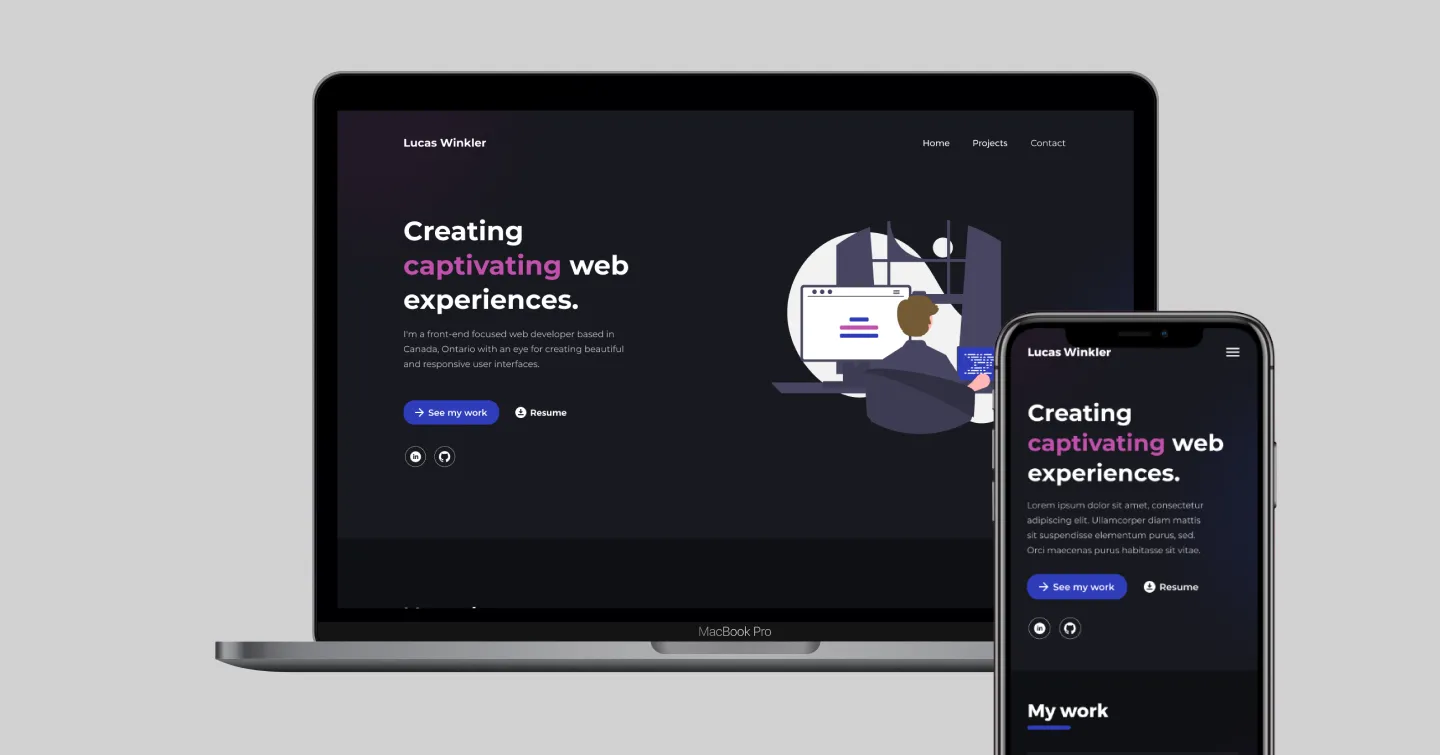
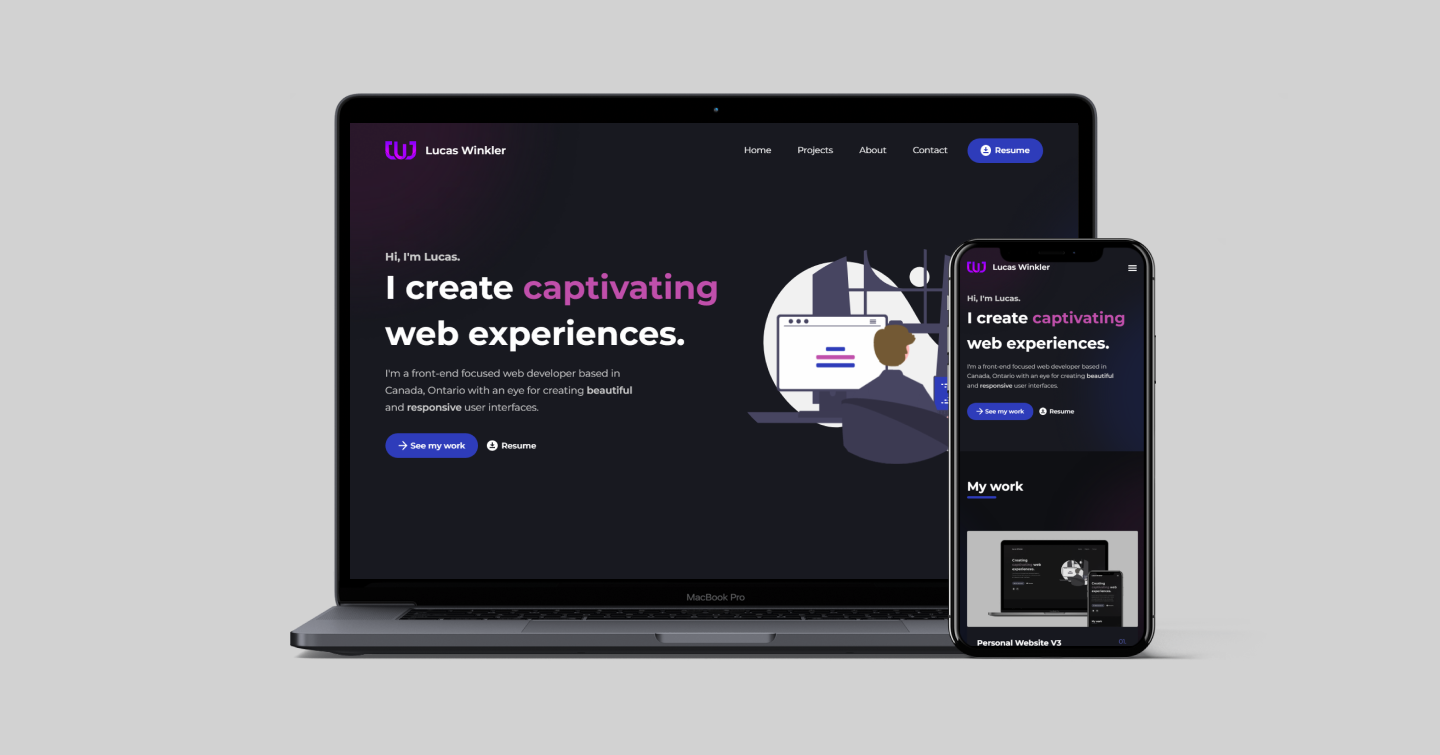
Modified images for project 1 and added rankguess as a 2nd project to display. Also modified the third coming soon project to remove confusion

Changed region(s): [[0.125, 0.0914, 0.9062, 1.0]]

diff --git a/index.html b/index.html
@@ -830,76 +830,67 @@
               style="--animation-delay: 2">
               <div class="project__image">
                 <img src="/images/project-personal-website-v3.webp" width="547" height="286"
-                  alt="Desktop and mobile screenshot of personal website v3 project" loading="lazy">
+                  alt="Personal website v3 project in desktop and mobile mockup devices" loading="lazy">
               </div>
             </div>
           </article>
           <article class="project reveal-tablet-md-down reveal--fade-bottom-tablet-md-down">
             <div class="project__content reveal-tablet-md-up reveal--fade-right-tablet-md-up">
               <header class="project__header">
-                <h3 class="project__title">Coming Soon!</h3>
+                <h3 class="project__title">RankGuess</h3>
                 <span class="project__number" aria-hidden="true">02.</span>
               </header>
               <div class="project__info">
                 <p class="project__description">
-                  I'm currently working hard at creating projects to show off!
-                  I'm not satisified with my past projects and I really wanted
-                  to get this website up and running so you'll have to wait
-                  just a bit!
+                  A full-stack, daily, web-based game where people guess the rank of another user after watching a short
+                  video of their gameplay. This project is still a work in progress.
                 </p>
                 <ul class="project__stack" aria-label="Project stack">
-                  <li class="project__tech">React</li>
-                  <li class="project__tech">Node</li>
-                  <li class="project__tech">SCSS</li>
+                  <li class="project__tech">Next.js (React)</li>
+                  <li class="project__tech">TypeScript</li>
+                  <li class="project__tech">TailwindCSS</li>
+                  <li class="project__tech">NextAuth</li>
+                  <li class="project__tech">Prisma</li>
+                  <li class="project__tech">Planetscale</li>
+                  <li class="project__tech">YouTube API</li>
                 </ul>
               </div>
               <footer class="project__links">
-                <div class="tooltip tooltip--active">
-                  <a class="button button--secondary disabled-link" title="Open the live website" role="link"
-                    aria-disabled="true" aria-describedby="project2DisabledReason1">
-                    <span class="button__prepend button__prepend--no-fill">
-                      <svg aria-hidden="true" focusable="false" width="17" height="17" viewBox="0 0 17 17" fill="none"
-                        xmlns="http://www.w3.org/2000/svg">
-                        <path
-                          d="M8.3125 2.4375H1.4375V15.5625H14.5625V8.6875M14.5625 2.4375L7.6875 9.3125M11.4375 1.1875H15.8125V5.5625"
-                          stroke="white" stroke-width="1.5" stroke-linecap="round" stroke-linejoin="round" />
-                      </svg>
-                    </span>
-                    <span class="button__text button__text--fw-regular">
-                      See project
-                    </span>
-                  </a>
-                  <div role="tooltip" class="tooltip__box" id="project2DisabledReason1">
-                    <span class="tooltip__text">Coming Soon!</span>
-                  </div>
-                </div>
-                <div class="tooltip tooltip--active">
-                  <a class="button button--secondary disabled-link disabled-link--svg-fill"
-                    title="Open the github repository" role="link" aria-disabled="true"
-                    aria-describedby="project2DisabledReason2">
-                    <span class="button__prepend">
-                      <svg aria-hidden="true" focusable="false" width="18" height="18" viewBox="0 0 18 18" fill="none"
-                        xmlns="http://www.w3.org/2000/svg">
-                        <path fill-rule="evenodd" clip-rule="evenodd"
-                          d="M9 0C4.0275 0 0 4.0275 0 9C0 12.9825 2.57625 16.3462 6.15375 17.5387C6.60375 17.6175 6.7725 17.3475 6.7725 17.1112C6.7725 16.8975 6.76125 16.1887 6.76125 15.435C4.5 15.8512 3.915 14.8837 3.735 14.3775C3.63375 14.1187 3.195 13.32 2.8125 13.1062C2.4975 12.9375 2.0475 12.5212 2.80125 12.51C3.51 12.4987 4.01625 13.1625 4.185 13.4325C4.995 14.7937 6.28875 14.4112 6.80625 14.175C6.885 13.59 7.12125 13.1962 7.38 12.9712C5.3775 12.7462 3.285 11.97 3.285 8.5275C3.285 7.54875 3.63375 6.73875 4.2075 6.10875C4.1175 5.88375 3.8025 4.96125 4.2975 3.72375C4.2975 3.72375 5.05125 3.4875 6.7725 4.64625C7.4925 4.44375 8.2575 4.3425 9.0225 4.3425C9.7875 4.3425 10.5525 4.44375 11.2725 4.64625C12.9937 3.47625 13.7475 3.72375 13.7475 3.72375C14.2425 4.96125 13.9275 5.88375 13.8375 6.10875C14.4113 6.73875 14.76 7.5375 14.76 8.5275C14.76 11.9812 12.6562 12.7462 10.6537 12.9712C10.98 13.2525 11.2613 13.7925 11.2613 14.6362C11.2613 15.84 11.25 16.8075 11.25 17.1112C11.25 17.3475 11.4187 17.6287 11.8687 17.5387C13.6554 16.9355 15.2079 15.7873 16.3077 14.2555C17.4076 12.7238 17.9995 10.8857 18 9C18 4.0275 13.9725 0 9 0Z"
-                          fill="white" />
-                      </svg>
-                    </span>
-                    <span class="button__text button__text--fw-regular">
-                      See code
-                    </span>
-                  </a>
-                  <div role="tooltip" class="tooltip__box" id="project2DisabledReason2">
-                    <span class="tooltip__text">Coming Soon!</span>
-                  </div>
-                </div>
+                <a class="button button--secondary" href="https://www.rankguess.com" rel="noopener noreferrer"
+                  target="_blank" title="Open the live website" role="link">
+                  <span class="button__prepend button__prepend--no-fill">
+                    <svg aria-hidden="true" focusable="false" width="17" height="17" viewBox="0 0 17 17" fill="none"
+                      xmlns="http://www.w3.org/2000/svg">
+                      <path
+                        d="M8.3125 2.4375H1.4375V15.5625H14.5625V8.6875M14.5625 2.4375L7.6875 9.3125M11.4375 1.1875H15.8125V5.5625"
+                        stroke="white" stroke-width="1.5" stroke-linecap="round" stroke-linejoin="round" />
+                    </svg>
+                  </span>
+                  <span class="button__text button__text--fw-regular">
+                    See project
+                  </span>
+                </a>
+                <a class="button button--secondary" href="https://github.com/LucasWinkler/rankguess"
+                  rel="noopener noreferrer" target="_blank" title="Open the github repository">
+                  <span class="button__prepend">
+                    <svg aria-hidden="true" focusable="false" width="18" height="18" viewBox="0 0 18 18" fill="none"
+                      xmlns="http://www.w3.org/2000/svg">
+                      <path fill-rule="evenodd" clip-rule="evenodd"
+                        d="M9 0C4.0275 0 0 4.0275 0 9C0 12.9825 2.57625 16.3462 6.15375 17.5387C6.60375 17.6175 6.7725 17.3475 6.7725 17.1112C6.7725 16.8975 6.76125 16.1887 6.76125 15.435C4.5 15.8512 3.915 14.8837 3.735 14.3775C3.63375 14.1187 3.195 13.32 2.8125 13.1062C2.4975 12.9375 2.0475 12.5212 2.80125 12.51C3.51 12.4987 4.01625 13.1625 4.185 13.4325C4.995 14.7937 6.28875 14.4112 6.80625 14.175C6.885 13.59 7.12125 13.1962 7.38 12.9712C5.3775 12.7462 3.285 11.97 3.285 8.5275C3.285 7.54875 3.63375 6.73875 4.2075 6.10875C4.1175 5.88375 3.8025 4.96125 4.2975 3.72375C4.2975 3.72375 5.05125 3.4875 6.7725 4.64625C7.4925 4.44375 8.2575 4.3425 9.0225 4.3425C9.7875 4.3425 10.5525 4.44375 11.2725 4.64625C12.9937 3.47625 13.7475 3.72375 13.7475 3.72375C14.2425 4.96125 13.9275 5.88375 13.8375 6.10875C14.4113 6.73875 14.76 7.5375 14.76 8.5275C14.76 11.9812 12.6562 12.7462 10.6537 12.9712C10.98 13.2525 11.2613 13.7925 11.2613 14.6362C11.2613 15.84 11.25 16.8075 11.25 17.1112C11.25 17.3475 11.4187 17.6287 11.8687 17.5387C13.6554 16.9355 15.2079 15.7873 16.3077 14.2555C17.4076 12.7238 17.9995 10.8857 18 9C18 4.0275 13.9725 0 9 0Z"
+                        fill="white" />
+                    </svg>
+                  </span>
+                  <span class="button__text button__text--fw-regular">
+                    See code
+                  </span>
+                </a>
               </footer>
             </div>
             <div class="project__image-wrapper reveal-tablet-md-up reveal--fade-right-tablet-md-up"
               style="--animation-delay: 2">
               <div class="project__image">
-                <img width="547" height="286" src="/images/project-personal-website-v3.webp"
-                  alt="Desktop and mobile screenshot of personal website v3 project" loading="lazy">
+                <img width="547" height="286" src="/images/project-rankguess.webp"
+                  alt="Rankguess project in desktop and mobile mockup devices" loading="lazy">
               </div>
             </div>
           </article>
@@ -911,15 +902,10 @@
               </header>
               <div class="project__info">
                 <p class="project__description">
-                  I'm currently working hard at creating projects to show off!
-                  I'm not satisified with my past projects and I really wanted
-                  to get this website up and running so you'll have to wait
-                  just a bit!
+                  I'm currently working hard at creating projects and working on my skills!
                 </p>
                 <ul class="project__stack" aria-label="Project stack">
-                  <li class="project__tech">React</li>
-                  <li class="project__tech">Node</li>
-                  <li class="project__tech">SCSS</li>
+                  <li class="project__tech">N/A</li>
                 </ul>
               </div>
               <footer class="project__links">
@@ -967,8 +953,7 @@
             <div class="project__image-wrapper reveal-tablet-md-up reveal--fade-left-tablet-md-up"
               style="--animation-delay: 2">
               <div class="project__image">
-                <img width="547" height="286" src="/images/project-personal-website-v3.webp"
-                  alt="Desktop and mobile screenshot of personal website v3 project" loading="lazy">
+                <img width="547" height="286" src="/images/project-coming-soon.webp" alt="Coming soon" loading="lazy">
               </div>
             </div>
           </article>
